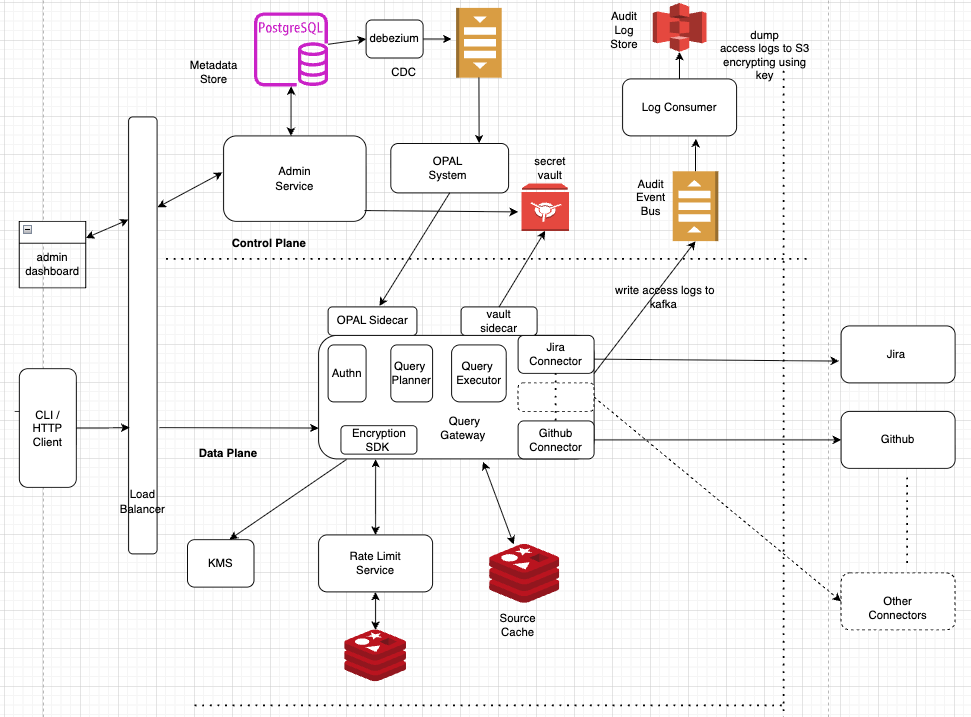
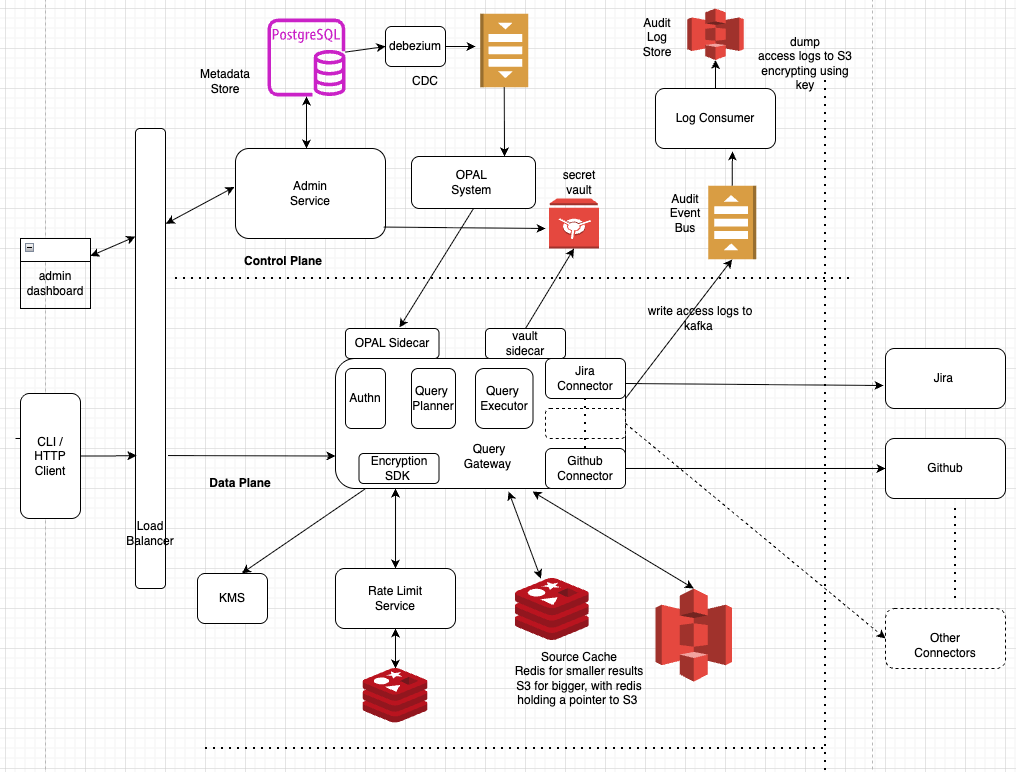
docs: harden architecture — S3 materialization, EKS node groups, caching progression, security doc rename
Key changes across docs:

query-federator-hla.png
- Updated HLA diagram to include the missing S3 component (spill/materialization tier)

docs/data-plane/executor.md
- Distinguish local Parquet scratch (per-execution) from S3-backed materialization (durable, reusable)
- Async handoff now explicitly mentions a durable job queue (e.g. SQS) with a persisted resumable job spec
- Clarify that async state serializes a job checkpoint, not live goroutines

docs/deployment-strategy.md
- Replace EKS Fargate with managed EKS + node groups (more accurate for production workloads)
- Replace CodeDeploy canary framing with native Kubernetes rolling updates + readiness-gated rollback
- Update Terraform ownership table to reflect node pools vs. managed control plane split
- Add Argo Rollouts / ArgoCD as future options to evaluate

docs/EXECUTION_PLAN.md
- M1: upstream 429 handling — capped backoff + fail-fast with actionable error; no shared cache yet
- M2: add freshness metadata contract (freshness_ms, freshness_source) and NetworkPolicy before Istio
- M3: introduce in-process source cache (max_staleness, soft/hard TTL, singleflight) instead of deferring all caching to M4
- M4: rename Redis cache layer to "hot cache" (moves M3 in-process cache to Redis for multi-node sharing); async path uses durable queue
- M5: spill/materialization is S3-backed Parquet, not disk-only; CodeDeploy replaced with CodePipeline + native rolling updates
[…]

diff --git a/docs/EXECUTION_PLAN.md b/docs/EXECUTION_PLAN.md
@@ -6,7 +6,7 @@
 |---|---|
 | **Security is not deferred** | KMS and audit pipeline are M2 — they are table stakes for any enterprise pilot, not scale features |
 | **One engineer, one domain** | Each engineer owns a domain end-to-end for the full six months. No context switching, no handoffs |
-| **Managed over self-hosted** | Use managed services (EKS Fargate, managed Kafka — MSK or Confluent Cloud, CodeDeploy) instead of self-hosting Kubernetes, Kafka, or CD tooling. Core differentiation is the query layer and connector SDK, not infrastructure operations |
+| **Managed over self-hosted** | Use managed services (EKS managed control plane + node groups, managed Kafka — MSK or Confluent Cloud, CodePipeline) instead of self-hosting cluster infrastructure, Kafka, or CD control planes. Core differentiation is the query layer and connector SDK, not infrastructure operations |
 
 ---
 
@@ -20,7 +20,7 @@
 | Backend Engineer — L4 | 1 | Connector SDK + all connectors (takes over from TL Data Plane once SDK pattern is set) | M1 |
 | Backend Engineer — L4 | 1 | Query planner + parser (takes over from Staff once interfaces are defined) | M1 |
 | Security Engineer | 1 | KMS, audit pipeline, secrets, compliance | M2 |
-| Infra Engineer | 1 | EKS, Terraform, managed CD pipeline | M1 half-time, M2 full |
+| Infra Engineer | 1 | EKS, node pools, Terraform, managed pipeline | M1 half-time, M2 full |
 | QA Engineer | 1 | Load tests, failure drills, runbooks | M3 |
 | Product Manager | 1 | Customer interviews, design partner feedback, market research | M1 |
 
@@ -41,9 +41,9 @@ Single microservice. Everything configured in YAML — tenants, policies, connec
 - **Query path**: SQL parse → fan-out to GitHub + Jira connectors in parallel → join results → apply access control → return with metadata
 - **OPA Go SDK embedded from day one**: policies are `.rego` files loaded from disk at container startup. Simple rules: row filters, column masks, role checks. No bespoke Go authorization logic — OPA from the start so M5 is a config change, not a rewrite
 - **Circuit breakers per connector from day one**: not a scale concern, a correctness concern. One flaky API must not stall all queries
-- **Rate limiting**: in-memory, sufficient for fixed-node infrastructure
+- **Rate limiting + upstream throttling**: in-memory token bucket, sufficient for the initial single-cluster deployment. On upstream `429`s or transient throttling, use capped exponential backoff; if budget is still exhausted after retries, fail fast with a clear actionable error. No shared cache yet
 - **Audit**: structured JSON log lines written to S3 (best-effort, no pipeline)
-- **Deploy**: EKS Fargate + Terraform from day one; GitHub Actions CI (test + build + push to ECR on every PR merge)
+- **Deploy**: Managed EKS + Terraform from day one; GitHub Actions CI (test + build + push to ECR on every PR merge)
 - **Observability**: four Grafana panels — query latency, connector fetch time, rate-limit rejections
 
 **Exit**: End-to-end cross-app query works for 1 tenant with OPA-evaluated access control.
@@ -60,9 +60,11 @@ Before any external pilot, two questions will be asked: "where are secrets store
 - **Audit pipeline**: managed Kafka (MSK or Confluent Cloud) → managed S3 Sink Connector. Single topic `audit-events` with `tenant_id` as a field. Per-tenant S3 prefixes via `FieldAndTimeBasedPartitioner`. 60-second in-memory buffer before S3 flush. Offsets committed only after successful S3 write — at-least-once delivery, no data loss on failure
 - **SSO**: one OIDC integration (Okta — most common in enterprise). Token-based HMAC auth deprecated
 - **OPA still loads from disk**: control plane is M3. Policy change still means redeploy. Acceptable at 1–2 tenants
+- **Freshness contract (minimal)**: every response returns `freshness_ms`, `freshness_source`, and connector rate-limit status so callers can distinguish live fetches from degraded behavior before shared caching arrives
+- **Network security**: edge TLS and Kubernetes `NetworkPolicy` allow-lists arrive before service mesh. Full Istio mTLS is deferred to later hardening, not the critical path for early pilots
 - **Deploy**: still manual
 
-**Exit**: Audit events in tenant-partitioned S3 within 60 seconds. Secrets in KMS. Okta SSO working.
+**Exit**: Audit events in tenant-partitioned S3 within 60 seconds. Secrets in KMS. Okta SSO working. Responses expose freshness and rate-limit metadata.
 
 ---
 
@@ -77,11 +79,11 @@ Before any external pilot, two questions will be asked: "where are secrets store
   - Row filters + column masks
 - **OPA bundle endpoint**: control plane exposes `GET /internal/bundles/policy.tar.gz`. Reads policies from Postgres, packages as OPA bundle format (tar.gz with `.rego` files + manifest). Built and tested — not yet the live policy source
 - **3rd connector**: validates that the connector SDK generalizes across different auth flows and rate-limit models
-- **Query caching design**: sketch interfaces and data model — cache key strategy (normalized query hash), TTL contract, invalidation triggers, Redis key schema. No implementation; design artifact produced for M4 execution
+- **Freshness + caching v1**: introduce an in-process source cache with `max_staleness`, soft TTL / hard TTL, and singleflight revalidation. Goal is quota protection and bounded staleness, not distributed scale yet
 - **Rate-limit service design**: sketch interfaces — token bucket API, per-connector/tenant/user bucket hierarchy, Redis data structures, backpressure contract. No implementation; design artifact produced for M4 execution
 - YAMLs remain the live config source while control plane is being validated
 
-**Exit**: Control plane service running. Bundle endpoint tested. Caching and rate-limit interfaces specced and reviewed. Data plane still on YAMLs.
+**Exit**: Control plane service running. Bundle endpoint tested. Freshness/caching v1 live. Redis rate-limit interfaces specced and reviewed. Data plane still on YAMLs.
 
 ---
 
@@ -92,11 +94,11 @@ Before any external pilot, two questions will be asked: "where are secrets store
 - **YAML → control plane migration**: migrate all tenant configs, connector configs, and policies into Postgres. OPA switches to polling the control plane bundle endpoint (policy changes now take effect in ≤ 30s, no redeploy)
 - **YAMLs fully deprecated** once all tenants migrated
 - **Redis-backed rate limiting**: replaces in-memory, required when nodes scale beyond fixed infra
-- **Redis-backed query caching**: first introduction of caching. Cache key = normalized query hash, TTL-based invalidation. No in-memory caching precursor — Redis directly
+- **Redis-backed hot cache**: move the M3 source cache into Redis so hot fetches are shared across nodes
 - **Async query path**: when a connector's rate budget is exhausted, queue the query and return a job ID for polling. Prevents blocking the request thread on slow upstreams
 - **2nd OIDC integration**: pick based on early customer demand
 
-**Exit**: Control plane is the only config source. Policy change without redeploy. Rate limiting and caching operational across multiple nodes.
+**Exit**: Control plane is the only config source. Policy change without redeploy. Rate limiting and Redis-backed hot cache operational across multiple nodes.
 
 ---
 
@@ -105,11 +107,11 @@ Before any external pilot, two questions will be asked: "where are secrets store
 **Sub-second policy revocation. Large joins handled. Deployment pipeline live.**
 
 - **OPAL server**: connects to control plane Postgres, detects policy changes, pushes bundle updates to OPA via WebSocket. OPA evaluator code unchanged — only the bundle source switches from polling to push. Policy revocation propagates in < 2 seconds
-- **Spill-to-disk materialization**: when a cross-app join exceeds the memory threshold, automatically spill to a temporary disk-based engine. Prevents OOM on large result sets
-- **Managed CD pipeline**: GitHub Actions → ECR → AWS CodeDeploy with canary (10% → 50% → 100%), SLO-gated promotion, automated rollback on error-rate breach. Manual promotion gate — no auto-deploy to production
+- **S3-backed large-result materialization**: large source results and expensive joins spill to encrypted Parquet on S3 with short TTLs. Keeps the hot path simple while avoiding OOMs and repeated SaaS fetches
+- **Managed CD pipeline**: GitHub Actions → ECR → AWS CodePipeline for staged environment promotion. EKS uses native rolling updates with readiness checks, health-based rollback, and a manual promotion gate for production
 - **Performance testing**: Tech Lead drives. Identify bottlenecks under load. Fix before M6
 
-**Exit**: Policy revocation < 2s. Large joins handled without OOM. Canary deployment operational.
+**Exit**: Policy revocation < 2s. Large joins handled without OOM. Managed deployment promotion pipeline operational.
 
 ---
 
@@ -122,6 +124,7 @@ Before any external pilot, two questions will be asked: "where are secrets store
 - Runbooks for the failure modes covered in drills
 - SLO dashboard with error budget tracking
 - Fix performance regressions surfaced in M5 testing
+- **Service-to-service mTLS only if justified**: introduce Istio for regulated or single-tenant hardening paths if customer requirements demand it. It is not a gate for the shared-infra pilot path
 - Single region, multi-AZ. Rely on AWS for availability within region. Multi-region is out of scope for GA
 - Last two weeks: perf fixes and sign-off process
 
@@ -134,21 +137,21 @@ Before any external pilot, two questions will be asked: "where are secrets store
 | Capability | M1 | M2 | M3 | M4 | M5 | M6 |
 |---|---|---|---|---|---|---|
 | **Connectors** | GitHub + Jira (SDK established) | — | 3rd connector | 4th connector | — | — |
-| **Query Planner** | SQL parse + fan-out + join | — | — | Async overflow (job ID) | Spill to disk | — |
+| **Query Planner** | SQL parse + fan-out + join | — | — | Async overflow (job ID) | S3-backed spill/materialization | — |
 | **AuthN** | HMAC token | Okta OIDC | — | 2nd OIDC provider | — | — |
 | **AuthZ — Evaluator** | OPA Go SDK embedded | — | — | — | — | — |
 | **AuthZ — Policy Source** | Rego files on disk | Rego files on disk | Rego files on disk (bundle endpoint built, not live) | Bundle from control plane (30s poll, live) | OPAL push (< 2s) | — |
 | **Circuit Breakers** | Per connector, from day one | — | — | — | — | — |
-| **Rate Limiting** | In-memory | — | — | Redis-backed, multi-node | — | — |
-| **Caching** | — | — | — | Redis-backed, query hash key (first introduction) | Large-result materialization | — |
+| **Rate Limiting** | In-memory + capped backoff/fail | — | — | Redis-backed, multi-node | — | — |
+| **Caching** | — | — | In-process freshness cache (`max_staleness`, soft/hard TTL) | Redis-backed hot cache | S3 materialization / spill | — |
 | **Audit** | Structured logs → S3 (best-effort) | Managed Kafka + S3 Sink (per-tenant prefix, 60s buffer, at-least-once) | — | — | — | — |
 | **Secrets / KMS** | Env vars | Per-tenant KMS keys (envelope encryption) | — | — | Automated key rotation | — |
 | **Control Plane** | YAML | YAML | Postgres-backed service built, YAMLs still live | Cutover complete, YAMLs deprecated | — | — |
 | **CI** | GitHub Actions (test + build + push to ECR on PR) | — | — | — | — | — |
-| **CD** | Manual deploy | Manual | Manual | Manual | Managed CD + canary (CodeDeploy) | — |
-| **Infra** | EKS Fargate, Terraform | MSK | Terraform modules expanded | Redis cluster | Multi-AZ | Chaos-validated |
+| **CD** | Manual deploy | Manual | Manual | Manual | Managed pipeline (CodePipeline) | — |
+| **Infra** | Managed EKS + node groups, Terraform | MSK | Terraform modules expanded | Redis cluster | Multi-AZ | Chaos-validated |
 | **Observability** | Grafana (4 panels) | — | Distributed tracing | — | Alerting + SLO budgets | Runbooks + manual failure drills |
-| **Networking** | Plain HTTP | — | — | — | — | mTLS (service mesh) |
+| **Networking** | Edge TLS at gateway | Kubernetes `NetworkPolicy` allow-lists | — | — | — | Istio mTLS (regulated / hardening only) |
 
 ---
 

diff --git a/docs/data-plane/executor.md b/docs/data-plane/executor.md
@@ -460,15 +460,16 @@ Note: RLS/CLS are applied **before** the join, not after. Each side is filtered 
 ## 5. Spill-to-Disk Strategy
 
 When in-memory execution would exceed budget, the executor routes to spill mode.
+Use two layers intentionally: **node-local Parquet scratch files** for the active execution, and **S3-backed cache/materialization** for large artifacts that must survive beyond the current process or be reused by later queries (as described in `freshness-and-caching.md`).
 
 ### Spill Triggers
 
 | Condition | Metric | Action |
 |---|---|---|
-| Single connector returns >50K rows | Row count in Fetch response | Write to Parquet on local disk; stream to executor |
+| Single connector returns >50K rows | Row count in Fetch response | Write to local Parquet scratch for this execution; publish to S3-backed source cache/materialization if the cache tier decides to retain it |
 | Hash join build side >100K rows | Row count in hash table | Build hash table on DuckDB (disk-backed) instead of in-memory map |
 | Process memory >70% of GOMEMLIMIT | `runtime.MemStats.HeapInuse` | Trigger forced spill for active queries; switch to disk-backed execution |
-| Query result set >10MB | Estimated bytes of projected rows | Write result to S3; return presigned URL instead of inline rows |
+| Query result set >10MB | Estimated bytes of projected rows | Persist result to S3 and return a handle/presigned URL instead of inline rows |
 
 ### Spill Flow
 
@@ -478,11 +479,12 @@ Normal path:
 
 Spill path:
   Connector.Fetch() -> []Row -> exceeds threshold
-    -> Write rows to local Parquet file
+    -> Write rows to local Parquet scratch file
     -> Execute join in DuckDB on Parquet files
     -> Write result to Parquet
+    -> If reusable/TTL-bound, persist encrypted Parquet to S3 via cache/materialization layer
     -> If small, read back to memory and return inline
-    -> If large, upload to S3 and return presigned URL
+    -> If large, return handle/presigned URL backed by S3
 ```
 
 ### DuckDB Runtime Modes
@@ -500,7 +502,7 @@ Decision rule:
 Spill is an execution concern, not a connector concern:
 - Connectors fetch source rows and return `[]Row`.
 - The executor decides join strategy and memory-safe routing.
-- File push/write (`/tmp/*.parquet`, optional S3 output) happens in executor-controlled execution paths.
+- Local scratch files (`/tmp/*.parquet`) are executor-owned execution detail; durable reusable artifacts are handed off to the cache/materialization layer for S3 persistence.
 
 ---
 
@@ -523,7 +525,7 @@ Is result estimatable?
     → SYNC path (inline response)
 
   Yes, >50K rows or join of >10K × >10K?
-    → ASYNC path (job queue)
+    → ASYNC path (durable job queue, e.g. SQS)
 
   Unknown (first query, no cache, no stats)?
     → Start SYNC, switch to ASYNC if timeout approaching
@@ -543,11 +545,11 @@ Gateway sets 10s timeout context
   → Executor starts fetching concurrently
   → After 7s, one connector is still paginating
   → 3s remaining, estimated 5s more needed
-  → If allow_async in request → enqueue remainder, return 202 with job_id
+  → If allow_async in request → persist async job state, enqueue to durable queue (e.g. SQS), return 202 with job_id
   → If !allow_async → wait until timeout → SOURCE_TIMEOUT with partial results hint
 ```
 
-The executor monitors `ctx.Deadline()` in the fetch loop. It doesn't commit to sync or async upfront — starts sync, escalates if needed.
+The executor monitors `ctx.Deadline()` in the fetch loop. It doesn't commit to sync or async upfront — starts sync, escalates if needed. On handoff, it persists a resumable job spec/checkpoint (query plan, principal, freshness settings, and any completed-source state), enqueues that job to a durable queue, and returns a `job_id` for client polling. It does not try to suspend and serialize live in-flight goroutines.
 
 ---
 
@@ -564,5 +566,5 @@ The executor monitors `ctx.Deadline()` in the fetch loop. It doesn't commit to s
 | **Hash join by default, hybrid DuckDB spill path** | Hash join is O(n+m) and optimal for equi-joins under 50K rows per side. Use in-process DuckDB for latency-sensitive small spill cases; use sidecar DuckDB for async/large spill cases to isolate memory and protect sync traffic. |
 | **Planner as pure function** | No I/O, no side effects. Produces a QueryPlan struct that the executor consumes. Enables planner replacement (cost-based, ML-assisted) without touching the executor. |
 | **Memory accounting is approximate** | Go doesn't support per-goroutine memory limits. Approximate accounting (row count × estimated row size) is sufficient to prevent catastrophic OOM. Exact tracking would require instrumenting every allocation — too costly. |
-| **Async path is opt-in** | Not all queries benefit from async. Interactive queries should fail fast (429 with Retry-After). Batch/reporting queries should queue gracefully. Client declares intent via `allow_async`. |
+| **Async path is opt-in** | Not all queries benefit from async. Interactive queries should fail fast (429 with Retry-After). Batch/reporting queries should queue gracefully via a durable job queue (for example, SQS) and return `202 Accepted` with a `job_id`. Client declares intent via `allow_async`. |
 | **Connector panic recovery** | A single `recover()` in the bulkhead prevents one connector's crash from taking down the entire gateway process. This is defense-in-depth alongside circuit breakers and timeouts. |

diff --git a/docs/deployment-strategy.md b/docs/deployment-strategy.md
@@ -2,12 +2,12 @@
 
 ## Approach: Managed Services First
 
-We use managed cloud services for CI/CD and infrastructure rather than self-hosting tools like ArgoCD or Helm operators. This is an enterprise-grade security product — operational reliability of the deployment pipeline itself is critical, and managed services provide that with minimal headcount.
+We use managed cloud services for CI/CD and infrastructure rather than self-hosting tools like ArgoCD or Helm operators. This is an enterprise-grade security product, and deployment reliability matters as much as application correctness.
 
 **Rationale:**
 - Core differentiation is the query layer and connector SDK, not deployment tooling
 - Self-hosting CD (ArgoCD/Flux) would require at least 2 dedicated engineers and still may not match the reliability of a managed platform
-- Managed services provide built-in canary, blue-green, and automated rollback — battle-tested at scale
+- Managed services reduce operational overhead for CI/CD, registry, secrets, and cluster management
 - Reduces blast radius of infra incidents; vendor SLAs backstop our own
 
 ## Architecture
@@ -17,42 +17,43 @@ GitHub Actions (CI)                Managed Kubernetes
 ───────────────────────────────────────────────────────────────────────
 Push → Test → Build image →  Push to Container Registry
                                       │
-                              Managed CD Service
+                              Managed Pipeline
                                       │
-                              Managed K8s handles:
+                              EKS + Kubernetes handle:
                                 - Pod autoscaling (HPA)
-                                - Node provisioning
-                                - Resource bin-packing
+                                - Rolling updates
+                                - Pod scheduling / bin-packing
 ```
 
 ## Pipeline
 
 - **CI**: GitHub Actions — test, build, push Docker image to container registry
-- **CD**: Managed CD (Google Cloud Deploy or AWS CodePipeline) with pipeline targets: dev → staging → prod
-- **Rollout**: Canary (10% → 50% → 100%) with SLO-gated promotion
-- **Rollback**: Automated on error-rate breach via cloud monitoring alerts
-- **Blue-green**: Supported natively by managed CD for zero-downtime releases
+- **CD**: Managed pipeline orchestration (Google Cloud Deploy or AWS CodePipeline) with targets: dev → staging → prod
+- **Rollout**: Native Kubernetes rolling updates with readiness checks and surge/unavailable settings
+- **Rollback**: Automated rollback on health-check or error-rate breach; manual promotion gate for production
 - **Autoscaling**: HPA config per service (CPU target ~70%, min 2 / max 20 replicas)
-- **Infra-as-Code**: Terraform modules for VPC, managed k8s cluster, managed database, secrets, IAM
+- **Infra-as-Code**: Terraform modules for VPC, managed k8s cluster, node pools, managed database, secrets, IAM
 
 ## What Terraform Manages vs What's Managed-for-You
 
 | Terraform (us)                  | Managed by Cloud Provider       |
 |---------------------------------|---------------------------------|
-| VPC, subnets, firewall rules    | Node scaling (Autopilot/Fargate)|
+| VPC, subnets, firewall rules    | Managed control plane           |
 | K8s cluster creation            | Pod scheduling                  |
-| Database, Secrets Manager       | Canary traffic splitting        |
-| IAM roles, service accounts     | Rollback orchestration          |
-| Deploy pipeline definition      | Certificate management          |
+| Node pools / instance classes   | Rolling update primitives       |
+| Database, Secrets Manager       | Certificate management          |
+| IAM roles, service accounts     | Basic cluster autoscaling       |
+| Deploy pipeline definition      | Pipeline execution / approvals  |
 
 **GCP stack**: GKE Autopilot, Cloud Deploy, Artifact Registry, Cloud SQL, Secret Manager
-**AWS stack**: EKS Fargate, CodePipeline + CodeDeploy, ECR, RDS, Secrets Manager
+**AWS stack**: EKS managed control plane + managed node groups, CodePipeline, ECR, RDS, Secrets Manager
 
 ## Future Decision Point
 
-Evaluate whether to bring CD in-house (ArgoCD/Flux) based on:
+Evaluate whether to move beyond the initial model based on:
 - Customer demand for single-tenant on-prem deployments
-- Need for custom rollout strategies beyond what managed CD supports
+- Need for richer canary / blue-green semantics beyond native rolling updates
 - Team growth that justifies the operational overhead
+- Preference for self-managed in-cluster software (ArgoCD / Flux / Argo Rollouts) versus a managed third-party platform such as Harness
 
-Until then, managed services are the pragmatic choice.
+Until then, managed services plus native Kubernetes rollout primitives are the pragmatic choice.
